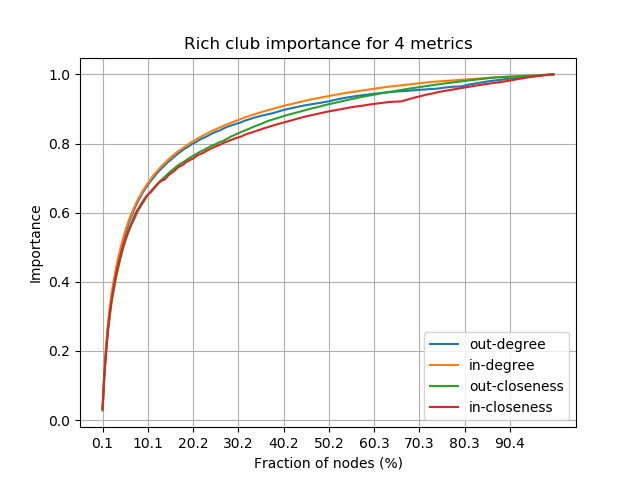
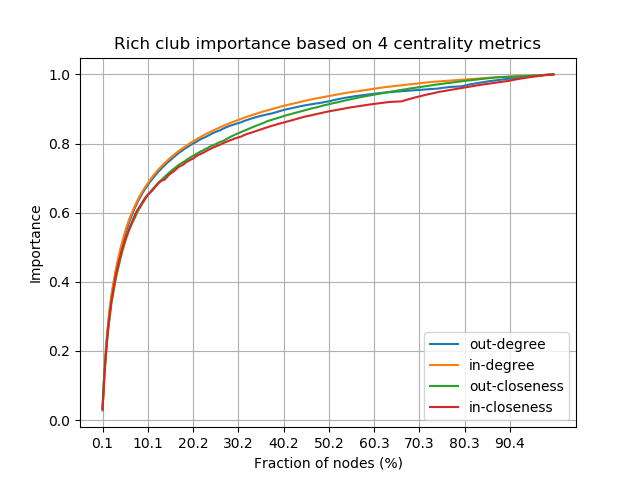
Better rich club plots plus modelling script added

Changed region(s): [[0.1562, 0.0625, 0.8438, 0.125]]

diff --git a/function.py b/function.py
@@ -144,16 +144,41 @@ def create_user_interactions_dict(path, nodes_a2q, edges_a2q, nodes_c2q, edges_c
     return user_dict
 
 
+# Calculates the accumulative degree (in and out) of each user
+# per timestep of active interaction
+def calculate_degree_per_time(user_dict):
+    degree_dict = {}
+    in_degree_dict = {}
+    out_degree_dict = {}
+    for user, history in user_dict.items():
+        last = 0
+        last_in = 0
+        last_out = 0
+        for t, activity in dict(sorted(history.items())).items():
+            last += len(activity)
+            last_in += len([a for a in activity if a.startswith('receiving')])
+            last_out += len([a for a in activity if a.startswith('giving')])
+            if user not in degree_dict.keys():
+                degree_dict[user] = {t: last}
+                in_degree_dict[user] = {t: last_in}
+                out_degree_dict[user] = {t: last_out}
+            else:
+                degree_dict[user][t] = last
+                in_degree_dict[user][t] = last_in
+                out_degree_dict[user][t] = last_out
+    return degree_dict, in_degree_dict, out_degree_dict
+
+
 # Creates the interaction value dictionary for each user
 # by aggregating the basic and the cumulative values
 def calculate_interaction_model(user_dict):
-    a = 8  # alpha parameter is the weight of the cumulative part
-    weight_map = {'giving answer': 5,
-                  'receiving answer': 3,
-                  'giving comment to question': 1,
-                  'receiving comment for question': 1.5,
-                  'giving comment to answer': 1,
-                  'receiving comment for answer': 1
+    a = 1.5  # alpha parameter is the weight of the cumulative part
+    weight_map = {'giving answer': 4.8,
+                  'receiving answer': 4.7,
+                  'giving comment to question': 5.9,
+                  'receiving comment for question': 3.7,
+                  'giving comment to answer': 6.2,
+                  'receiving comment for answer': 4.8
                   }
     basic_dict = {}
     cumulative_dict = {}
@@ -194,7 +219,7 @@ def calculate_interval(user_dict):
 # Calculates the trust for each user per timestamp
 # using the interaction and interval dictionaries
 def calculate_trust(interactions_dict, interval_dict):
-    beta = 0.88  # parameter to adjust the forgetting factor
+    beta = 0.99  # parameter to adjust the forgetting factor
     trust_dict = {}
     for user in interactions_dict.keys():
         trust_dict[user] = {0: 1}  # all users gain a trust of 1 in zero time
@@ -204,6 +229,66 @@ def calculate_trust(interactions_dict, interval_dict):
             trust_dict[user][t] = trust_dict[user][last_t]*beta**interval_dict[user][t]+interactions_dict[user][t]
             last_t = t
     return trust_dict
+
+
+# Aggregates the activity of each user for the given granularity factor
+# by keeping the latest value that the user reported in the granularity bin
+def aggregate_user_dict_by_granularity(user_dict, granularity, timestamps):
+    aggregated_dict = {}
+    granularity_factor = 1 if granularity == 'sec' else 60 if granularity == 'min' else 3600 if granularity == 'hour' \
+        else 3600 * 24
+    min_t = min([k for k in list(map(lambda x: int(x), list(timestamps.keys()))) if k != 0])
+    for user, history in user_dict.items():
+        for t, activity in dict(sorted(history.items())).items():
+            bin_id = math.floor((float(t) - float(min_t))/granularity_factor)
+            aggregated_dict[user] = {bin_id: activity}
+    return aggregated_dict
+
+
+# Aggregates the timestamps appearing in the dataset by
+# the given granularity factor
+def aggregate_timestamps_by_granularity(timestamps, granularity):
+    binned_timestamps = {}
+    granularity_factor = 1 if granularity == 'sec' else 60 if granularity == 'min' else 3600 if granularity == 'hour' \
+        else 3600 * 24
+    min_t = min([k for k in list(map(lambda x: int(x), list(timestamps.keys()))) if k != 0])
+    for t, ind in dict(sorted(timestamps.items())).items():
+        bin_id = math.floor((float(t) - float(min_t))/granularity_factor)
+        if bin_id not in binned_timestamps.keys():
+            binned_timestamps[bin_id] = 1
+        else:
+            binned_timestamps[bin_id] += 1
+    return binned_timestamps
+
+
+def make_modelled_trust_chart(metric_dict, trust_dict, binned_timestamps, filename):
+    y_pos = np.arange(max(binned_timestamps.keys())+1)
+    for ind, dict_in_check in enumerate([metric_dict, trust_dict]):
+        m = [0]*(max(binned_timestamps.keys())+1)
+        last_t = {i: 0 for i in metric_dict.keys()}
+        for t in range(0, max(binned_timestamps.keys())+1):
+            for user, history in dict_in_check.items():
+                if t in history.keys():
+                    m[t] += history[t]
+                    last_t[user] = t
+                else:
+                    if last_t[user] != 0:
+                        m[t] += history[last_t[user]]
+        if not ind:
+            plt.plot(y_pos, m, label='degree')
+        else:
+            plt.plot(y_pos, m, label='modelled reputation')
+    plt.xticks(y_pos[0:len(y_pos):200], y_pos[0:len(y_pos):200])
+    # plt.xticks(rotation=45)
+    plt.xlabel('Days')
+    plt.ylabel('Users\' aggregated degree and reputation per day')
+    plt.title('Degree and Modelled Reputation through time')
+    plt.grid(True)
+    plt.legend()
+
+    #plt.show()
+    plt.savefig(filename)
+    plt.clf()
 
 
 # Computes the degree of each node in the graph
@@ -248,13 +333,13 @@ def make_rich_club_coefficient_chart(rich_dict, filename):
         for metric_dict in metric_in_time.values():
             m.append(metric_dict['coefficient'])
         plt.plot(y_pos, m, label=metric)
-    plt.xticks(y_pos[0:len(y_pos):10], [round(metric_dict['nodes']/24818*100,1)
+    plt.xticks(y_pos[0:len(y_pos):25], [round(metric_dict['nodes']/24818*100,1)
                                         for ind, metric_dict in rich_dict['out-degree'].items()
-                                         if ind in y_pos[0:len(y_pos):10]])
+                                         if ind in y_pos[0:len(y_pos):25]])
     # plt.xticks(rotation=45)
     plt.xlabel('Fraction of nodes (%)')
     plt.ylabel('Rich club coefficient')
-    plt.title('Rich club coefficient for 4 metrics')
+    plt.title('Rich club coefficient based on 4 centrality metrics')
     plt.grid(True)
     plt.legend()
 
@@ -270,13 +355,13 @@ def make_rich_club_importance_chart(rich_dict, filename):
         for metric_dict in metric_in_time.values():
             m.append(metric_dict['importance'])
         plt.plot(y_pos, m, label=metric)
-    plt.xticks(y_pos[0:len(y_pos):10], [round(metric_dict['nodes']/24818*100,1)
+    plt.xticks(y_pos[0:len(y_pos):25], [round(metric_dict['nodes']/24818*100,1)
                                         for ind, metric_dict in rich_dict['out-degree'].items()
-                                         if ind in y_pos[0:len(y_pos):10]])
+                                         if ind in y_pos[0:len(y_pos):25]])
     # plt.xticks(rotation=45)
     plt.xlabel('Fraction of nodes (%)')
     plt.ylabel('Importance')
-    plt.title('Rich club importance for 4 metrics')
+    plt.title('Rich club importance based on 4 centrality metrics')
     plt.grid(True)
     plt.legend()
 

diff --git a/modelling_test.py b/modelling_test.py
@@ -1,0 +1,38 @@
+import function as fn
+import pickle
+
+
+file = open(r'C:\Users\Vasilis\PycharmProjects\mathoverflow-network-analysis\pickles\myEdges\mathoverflow\a2q.pkl', 'rb')
+nodes_a2q = pickle.load(file)
+edges_a2q = pickle.load(file)
+file.close()
+
+file = open(r'C:\Users\Vasilis\PycharmProjects\mathoverflow-network-analysis\pickles\myEdges\mathoverflow\c2q.pkl', 'rb')
+nodes_c2q = pickle.load(file)
+edges_c2q = pickle.load(file)
+file.close()
+
+file = open(r'C:\Users\Vasilis\PycharmProjects\mathoverflow-network-analysis\pickles\myEdges\mathoverflow\c2a.pkl', 'rb')
+nodes_c2a = pickle.load(file)
+edges_c2a = pickle.load(file)
+file.close()
+
+path = r'C:\Users\Vasilis\PycharmProjects\mathoverflow-network-analysis\data\mathoverflow\sx-mathoverflow.txt'
+filename = r'modelling/first_attempt_out_degree.png'
+
+print('Creating user dictionary...')
+user_dict = fn.create_user_interactions_dict(path, nodes_a2q, edges_a2q, nodes_c2q, edges_c2q, nodes_c2a, edges_c2a)
+print('Setting up the model...')
+interactions_dict = fn.calculate_interaction_model(user_dict)
+interval_dict = fn.calculate_interval(user_dict)
+trust_dict = fn.calculate_trust(interactions_dict, interval_dict)
+print('Initiating timestamps...')
+timestamps = fn.initiate_timestamps(edges_a2q, edges_c2q, edges_c2a)
+print('Creating the metric dictionaries...')
+degree_dict, in_degree_dict, out_degree_dict = fn.calculate_degree_per_time(user_dict)
+print('Aggregating per day...')
+aggregated_degree_dict = fn.aggregate_user_dict_by_granularity(out_degree_dict, 'day', timestamps)
+aggregated_trust_dict = fn.aggregate_user_dict_by_granularity(trust_dict, 'day', timestamps)
+binned_timestamps = fn.aggregate_timestamps_by_granularity(timestamps, 'day')
+print('Making the charts...')
+fn.make_modelled_trust_chart(aggregated_degree_dict, aggregated_trust_dict, binned_timestamps, filename)

diff --git a/rich_club_tests.py b/rich_club_tests.py
@@ -107,7 +107,7 @@ def find_rich_coeff(G_total, num_of_nodes):
 
 
 def print_rich_club_graphs(filename1, filename2):
-    filehandler = open("rich_club/rich_club_recordings_more_zoomed.pickle", "rb")
+    filehandler = open("rich_club/rich_club_recordings.pickle", "rb")
     rich_dict = pickle.load(filehandler)
     filehandler.close()
     fn.make_rich_club_coefficient_chart(rich_dict, filename1)
@@ -125,8 +125,8 @@ num_of_nodes = G_total.number_of_nodes()
 # print('Pure comments to questions:', c2q.number_of_edges())
 # print('Pure comments to answers:', c2a.number_of_edges())
 # find_rich_coeff(G_total, num_of_nodes)
-filename1 = 'rich_club/rich_coefficient_graph_more_zoomed.png'
-filename2 = 'rich_club/rich_importance_graph_more_zoomed.png'
+filename1 = 'rich_club/rich_coefficient_graph.png'
+filename2 = 'rich_club/rich_importance_graph.png'
 print_rich_club_graphs(filename1, filename2)
 # print('rich club coefficient:', rich_club_coeff)
 # nx.draw_networkx(undirected_rich_G, pos=nx.random_layout(undirected_rich_G), arrowsize=5,
